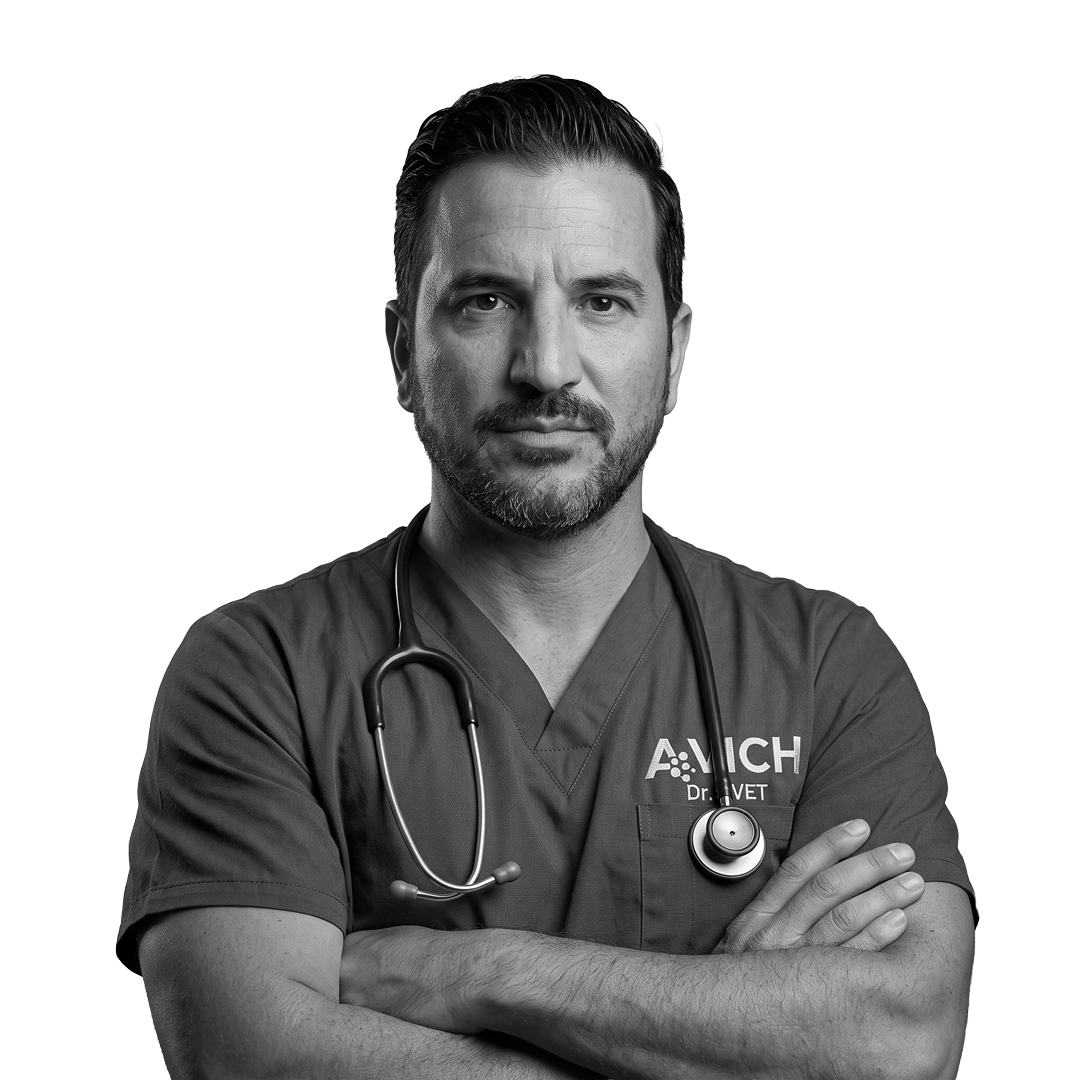
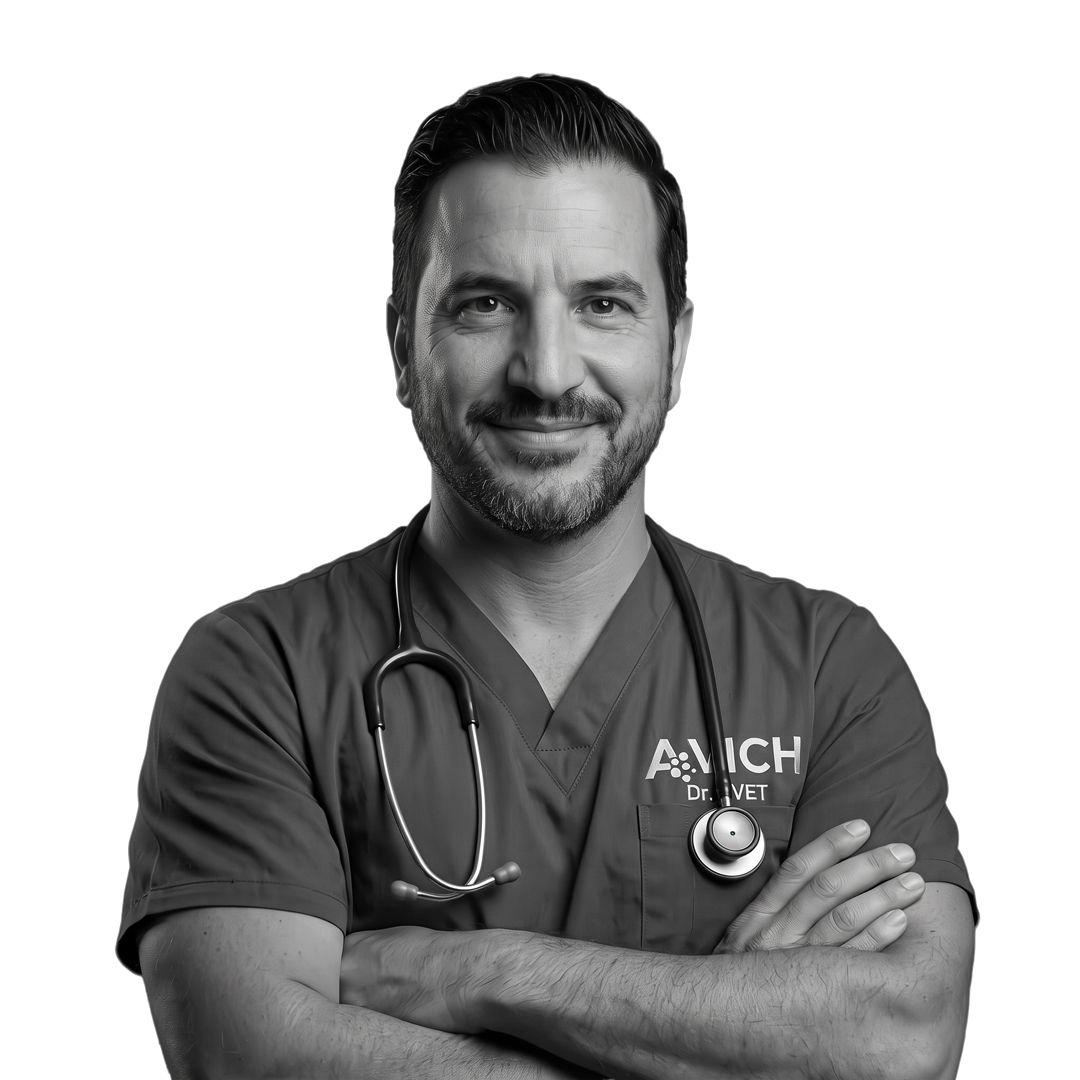
refactor: update team section and enhance hero visuals
Replace individual team member assets and update the mobile navigation logic to include the team section. Adjust hero background overlay and video opacity for improved visual clarity.

diff --git a/src/components/MobileBottomNav.tsx b/src/components/MobileBottomNav.tsx
@@ -6,7 +6,7 @@ export default function MobileBottomNav() {
 
   useEffect(() => {
     const handleScroll = () => {
-      const sections = ['contact', 'differentiators', 'species', 'services', 'about'];
+      const sections = ['contact', 'differentiators', 'team', 'species', 'services', 'about'];
       let current = 'hero';
 
       for (const section of sections) {
@@ -78,11 +78,11 @@ export default function MobileBottomNav() {
           </span>
         </div>
 
-        {/* 4. Por qué / Nosotros */}
+        {/* 4. Equipo / Nosotros */}
         <a
-          href="#differentiators"
+          href="#team"
           className={`flex flex-col items-center justify-center flex-1 py-1 transition-colors ${
-            activeSection === 'differentiators' ? 'text-[#FD8548]' : 'text-gray-400 hover:text-gray-200'
+            activeSection === 'team' ? 'text-[#FD8548]' : 'text-gray-400 hover:text-gray-200'
           }`}
         >
           <ShieldCheck className="w-5 h-5 mb-1" />

diff --git a/src/components/Hero.tsx b/src/components/Hero.tsx
@@ -12,11 +12,11 @@ export default function Hero() {
           loop 
           muted 
           playsInline 
-          className="absolute inset-0 w-full h-full object-cover object-center opacity-60"
+          className="absolute inset-0 w-full h-full object-cover object-center opacity-75"
         >
           <source src={heroVideo} type="video/mp4" />
         </video>
-        <div className="absolute inset-0 bg-gradient-to-r from-[#38307E]/90 to-[#6A00C8]/70 z-10 mix-blend-multiply"></div>
+        <div className="absolute inset-0 bg-gradient-to-r from-[#38307E]/70 to-[#6A00C8]/55 z-10 mix-blend-multiply"></div>
       </div>
 
       <div className="relative z-20 text-center px-4 max-w-5xl mx-auto mt-10 md:mt-16 w-full">
